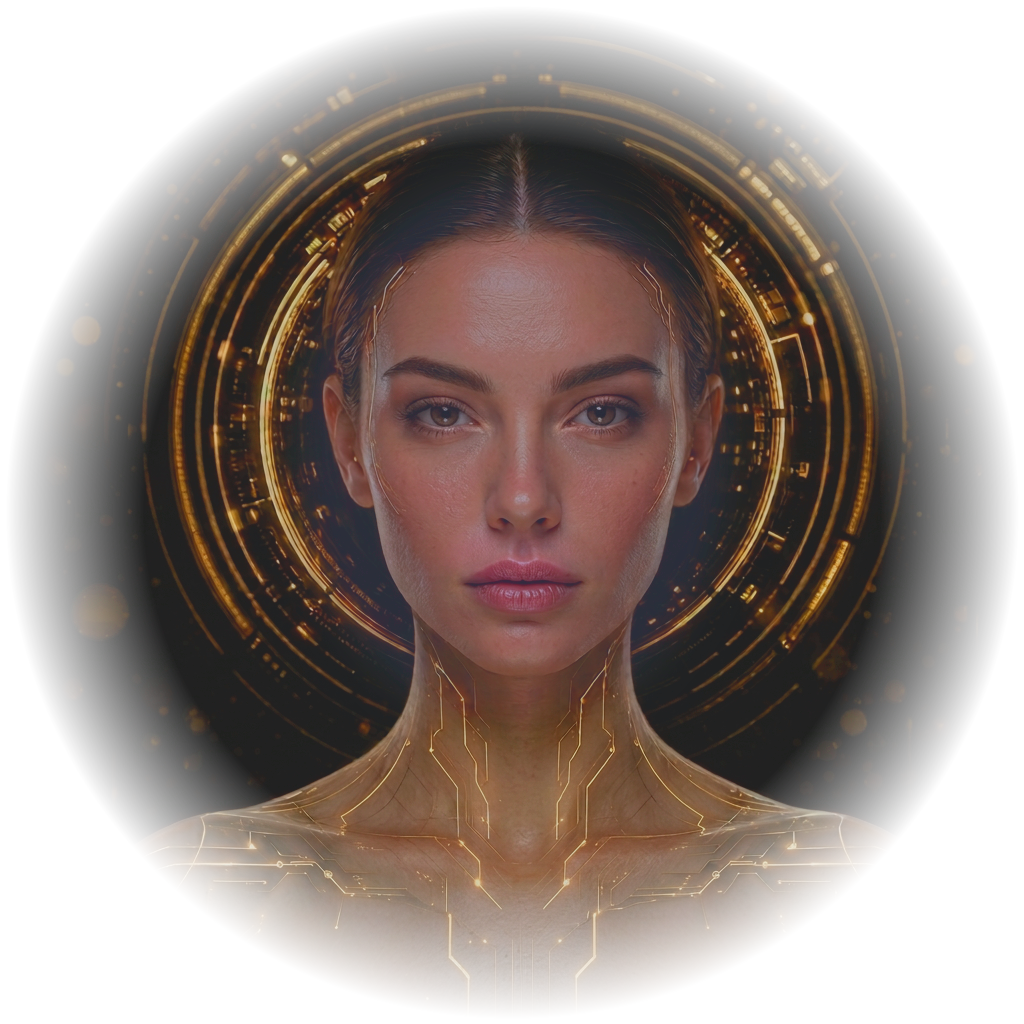
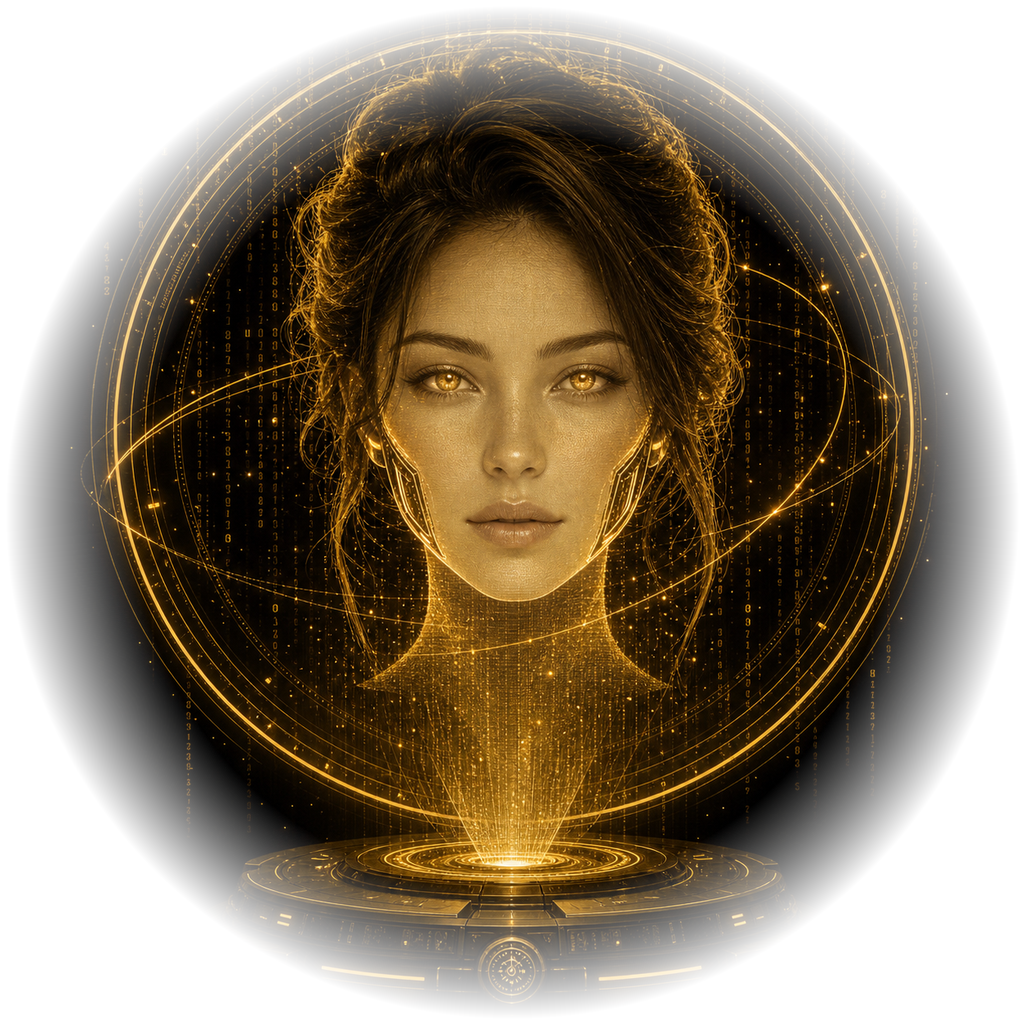
Hologramme doré (style référence) + lèvres animées sur mesures réelles, sync audio

diff --git a/ui/app.js b/ui/app.js
@@ -3,6 +3,8 @@ import { SpeechPlayer } from "./speech.mjs?v=speech-sync-2";
 import { EffectComposer } from "three/addons/postprocessing/EffectComposer.js";
 import { RenderPass } from "three/addons/postprocessing/RenderPass.js";
 import { UnrealBloomPass } from "three/addons/postprocessing/UnrealBloomPass.js";
+import { HoloMouth } from "./holo-mouth.mjs?v=command-center-17";
+import { lipDemoPose } from "./lips.mjs?v=command-center-17";
 
 /* =========================================================
    KIRA // AI COMMAND CENTER — thème or
@@ -184,8 +186,39 @@ energySphere.position.z = -3.2;
    AVATAR — visage doré de KIRA
    ========================================================= */
 
+let holoMouth = null;
 const avatarGroup = new THREE.Group();
 scene.add(avatarGroup);
+
+// ── HOLOGRAMME DE KIRA (image + lèvres animées) ──
+if (THREE.TextureLoader && THREE.PlaneGeometry) {
+  const avatarLoader = new THREE.TextureLoader();
+  const avatarTexture = avatarLoader.load("assets/avatar_gold.png", (texture) => {
+    if (texture && THREE.SRGBColorSpace) texture.colorSpace = THREE.SRGBColorSpace;
+    if (texture) texture.needsUpdate = true;
+    // Lèvres animées : maillage visème sur les mesures réelles de la bouche,
+    // synchronisé sur l'horloge audio réelle (aucun décalage).
+    if (texture && texture.image && typeof HoloMouth === "function") {
+      try { holoMouth = new HoloMouth(texture.image, THREE, scene, avatarPlane); }
+      catch { holoMouth = null; }
+    }
+  });
+  const avatarMaterial = new THREE.MeshBasicMaterial({
+    map: avatarTexture,
+    transparent: true,
+    opacity: 1.0,
+    depthWrite: false,
+    depthTest: false,
+    toneMapped: false,
+  });
+  const avatarPlane = new THREE.Mesh(
+    new THREE.PlaneGeometry(6.4, 6.4),
+    avatarMaterial
+  );
+  avatarPlane.renderOrder = 50;
+  avatarPlane.position.set(0, 0.4, 5.2);
+  avatarGroup.add(avatarPlane);
+}
 
 /* =========================================================
    CLUSTER DU CŒUR — nœud d'énergie (fixe, sur la poitrine)
@@ -549,7 +582,7 @@ function stopSpeaking() {
   speech.stop();
 }
 
-window.addEventListener("pagehide", () => speech.destroy());
+window.addEventListener("pagehide", () => { speech.destroy(); holoMouth?.destroy?.(); });
 
 // Bouton muet
 const muteButton = document.getElementById("mute");
@@ -1375,7 +1408,15 @@ function animate() {
   const light = level * (disabled ? 0.12 : 1);
   const motionTime = disabled ? 0 : time;
   const step = disabled ? 0 : dt;
-voiceRotation += energy * step;
+// Lèvres de l'hologramme : même horloge audio que le son (zéro décalage).
+  if (holoMouth) {
+    holoMouth.update(
+      { mouth: voice.mouth, active: voice.active, level },
+      { now, disabled, demo: demo ? lipDemoPose(demoAge) : null }
+    );
+  }
+
+  voiceRotation += energy * step;
   voiceUniforms.voiceTime.value = motionTime;
   voiceUniforms.voiceEnergy.value = energy;
   voiceUniforms.voiceLow.value = low;

diff --git a/ui/index.html b/ui/index.html
@@ -384,6 +384,6 @@
       <div id="toast" class="toast"></div>
     </main>
 
-    <script type="module" src="./app.js?v=command-center-16"></script>
+    <script type="module" src="./app.js?v=command-center-17"></script>
   </body>
 </html>
